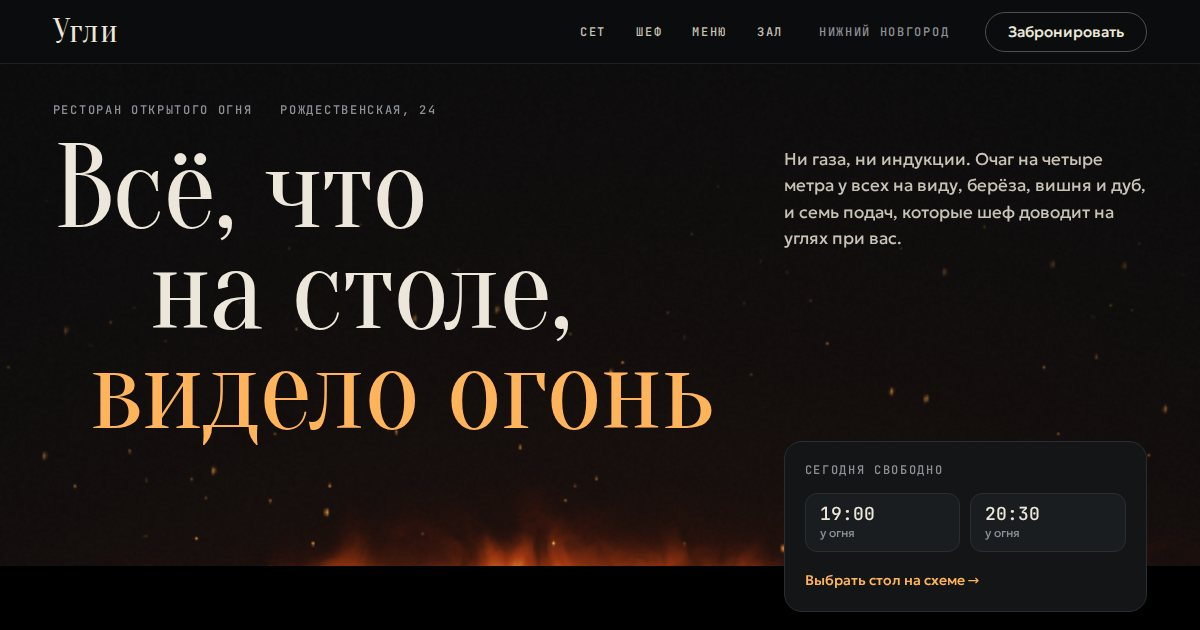
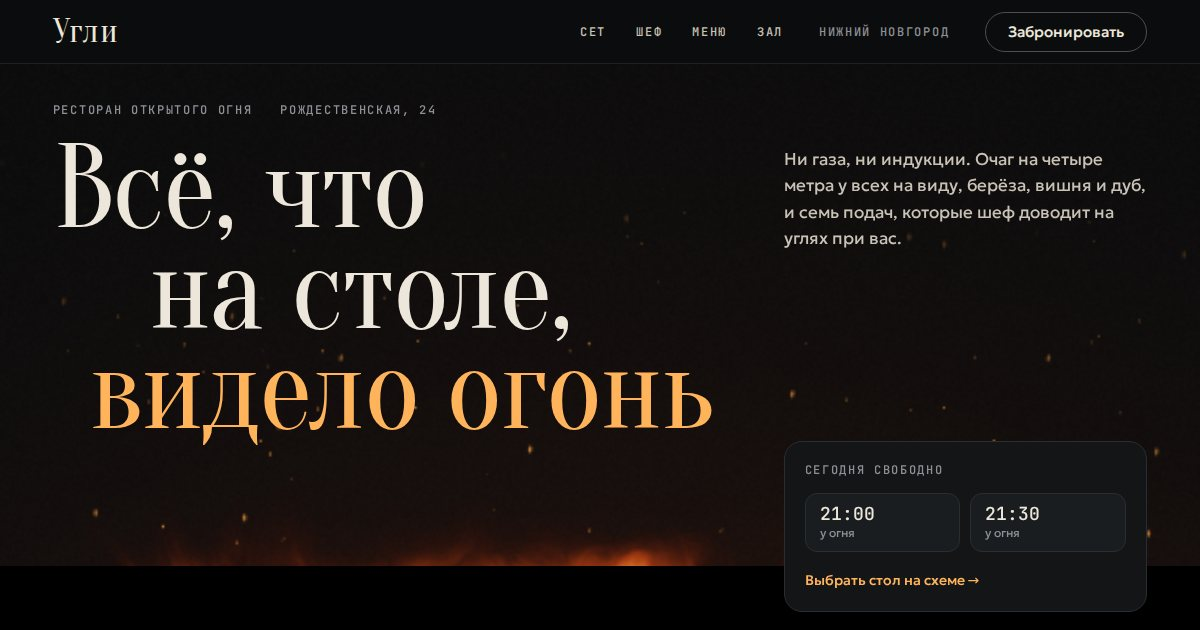
Угли: поздно вечером бронь открывается на завтра

diff --git a/ugli-restoran/assets/js/main.js b/ugli-restoran/assets/js/main.js
@@ -390,6 +390,8 @@ function heroSlots() {
   });
 }
 
+// поздно вечером на сегодня свободного уже нет: схема открывается на завтра, как и карточка первого экрана
+if (!TIMES.some((t) => zoneOf(0, t, st.g))) st.di = 1;
 renderDni();
 ensureTime();
 render();
